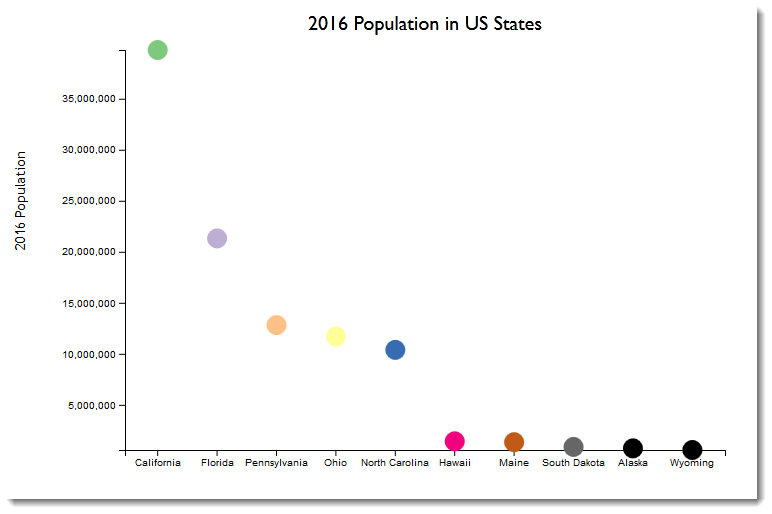
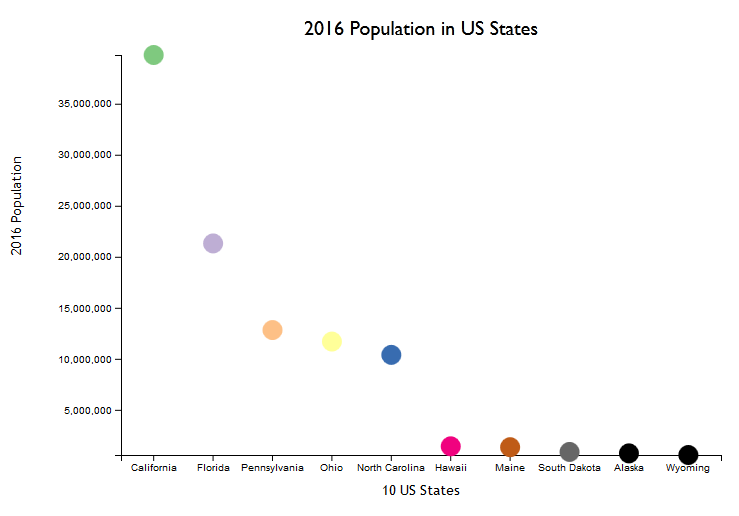
updated chart

diff --git a/scaleband/js/axis.js b/scaleband/js/axis.js
@@ -65,3 +65,10 @@ svg.append('text')
   .attr('x', -100)
   .attr('y', height / 2)
   .attr('transform', `rotate(-90, -100, ${height / 2})`);
+
+svg.append('text')
+  .attr('class', 'axis')
+  .text('10 US States')
+  .attr('x', width / 2)
+  .attr('text-anchor', 'middle')
+  .attr('y', height + 40);
